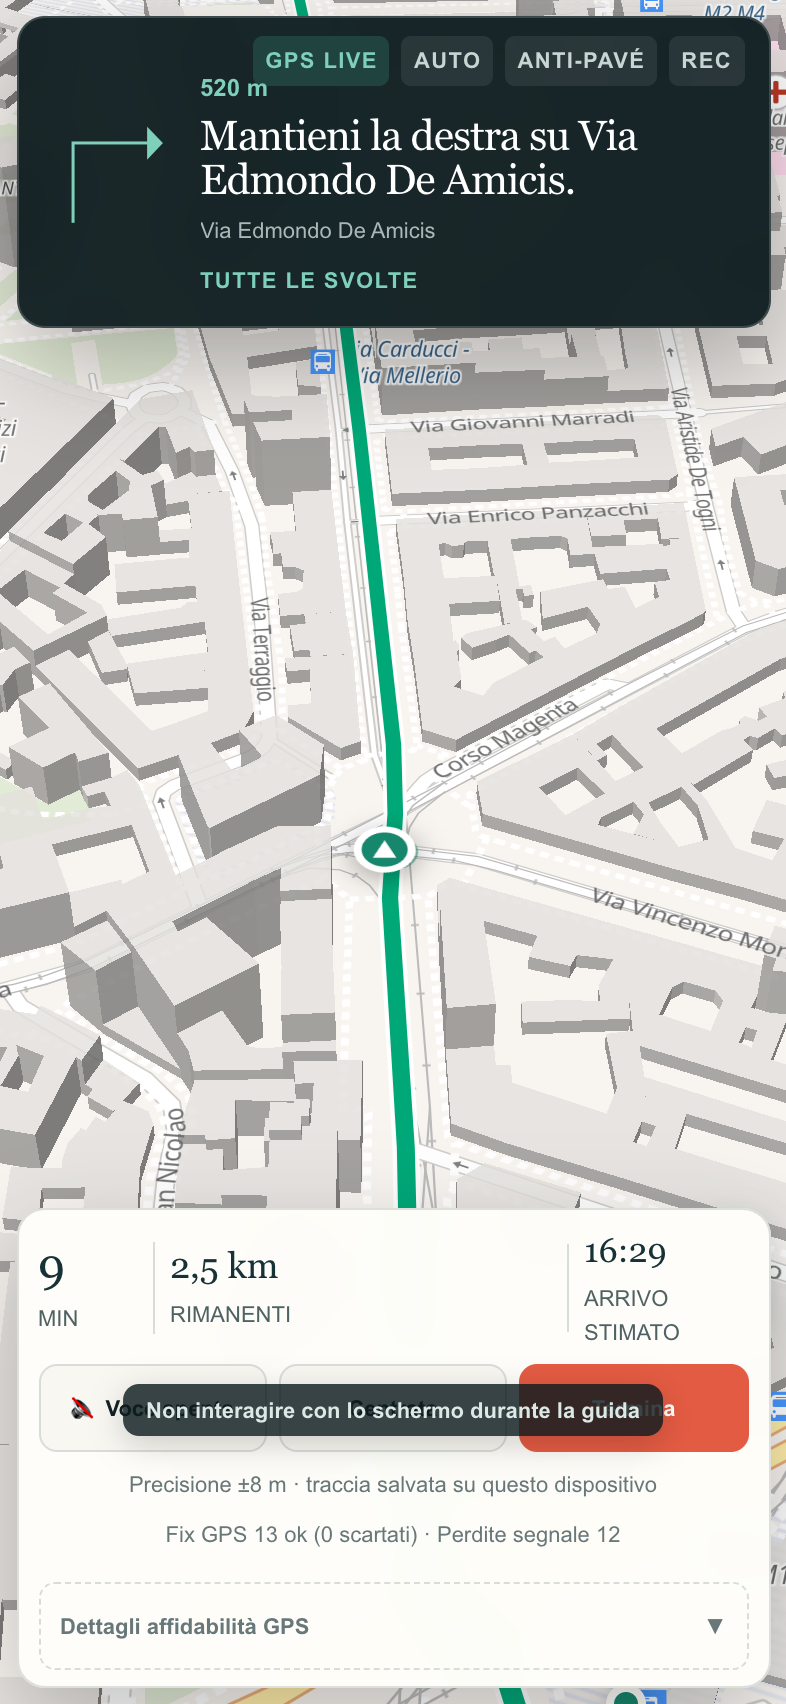
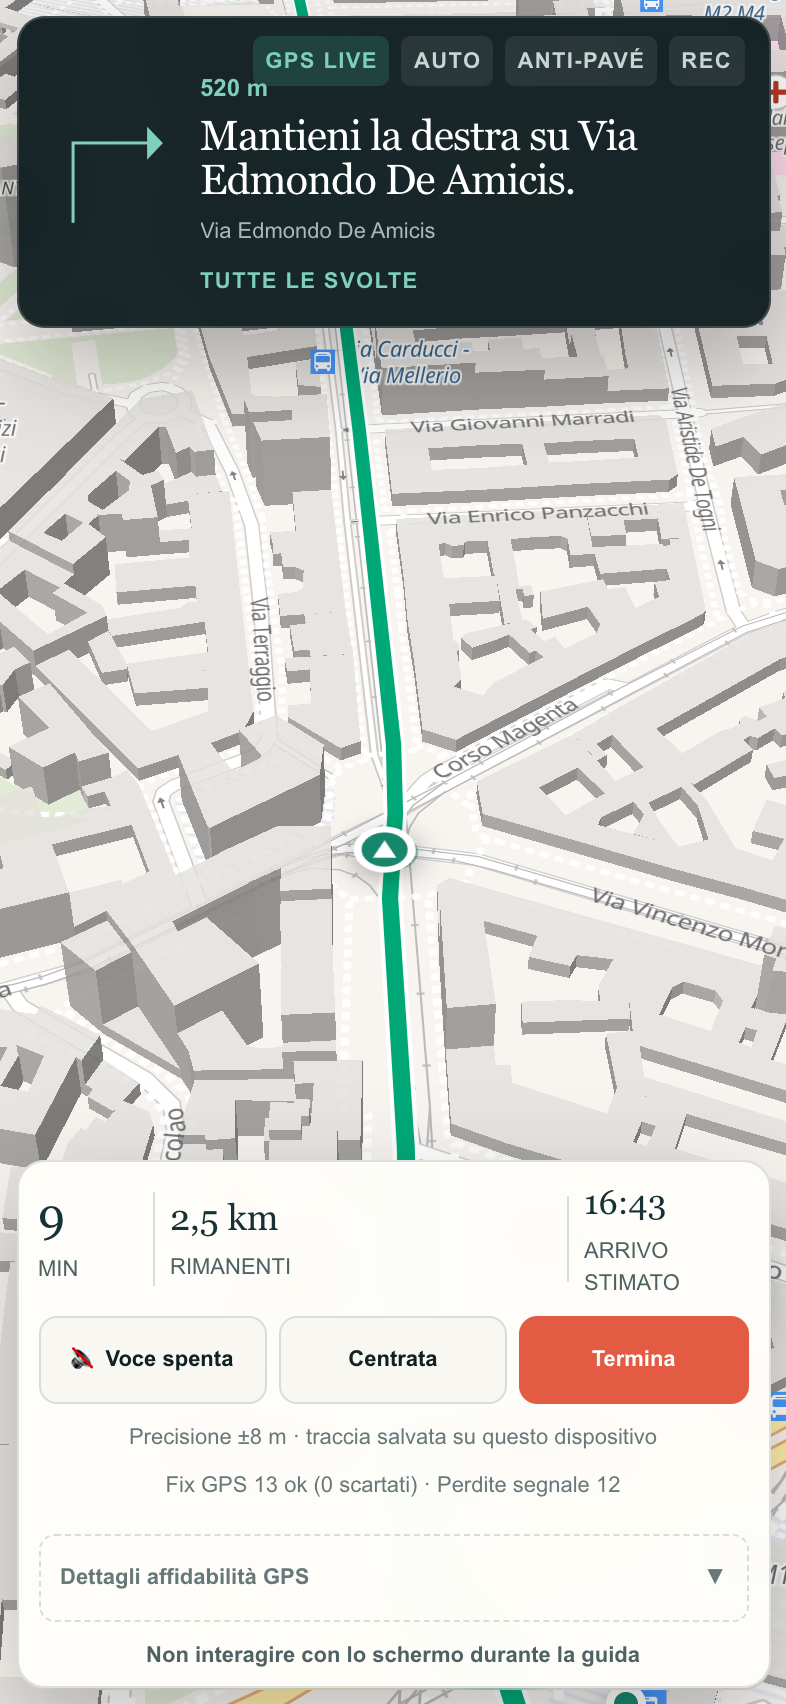
docs: update Phase 4.10 report for the final pilot version

Changed region(s): [[0.0, 0.6532, 0.9771, 0.9953], [0.8855, 0.902, 0.916, 0.9642]]

diff --git a/outputs/phase410-release-report.md b/outputs/phase410-release-report.md
@@ -2,9 +2,9 @@
 
 **Outcome: ready for the first physical iPhone test. Navigation is not yet validated on a real device.**
 
-Deployed to `https://lastrico-pilot.campsh.workers.dev` on 2026-11-01 as version `ad7a353a-cbfa-485d-9d51-bcbb1ac2fb3e`.
+Deployed to `https://lastrico-pilot.campsh.workers.dev` on 2026-11-01 as version `f5e3dd66-8bcb-4922-9c7e-9b37e6572a81`.
 
-Rollback:
+To return to the version before this phase:
 
 ```bash
 npx wrangler rollback de0d61c9-4061-4177-add1-3d174f6d8e42 --name lastrico-pilot
@@ -34,7 +34,11 @@ Nothing was pushed to GitHub or merged, so the pilot now runs commits that exist
 
 Private access within 150 m of either route end is now allowed and disclosed. `access=no`, wrong-way travel and private land crossed mid-route still disqualify a route, and now answer 422 with the real reason. This route returns 200 in production with the notice.
 
+## Other defects the review missed or understated
+
 The review report also missed that the diagnostics card claimed "Nessuna coordinata GPS viene inviata a server", which is false because reroutes send the position to routing providers. A test pinned that text. Both are corrected.
+
+The review described the "Non interagire con lo schermo" message as a minor overlap. It was permanent, sat over Voce, Centrata and Termina, and could take their taps. It now sits in the panel's flow and is hidden on a landscape phone. The end-to-end check asserts that a tap at each HUD control's centre reaches that control.
 
 ## Deviations from the prompt
 
@@ -43,7 +47,7 @@ The review report also missed that the diagnostics card claimed "Nessuna coordin
 - **B, untested path.** Export used the download path with the anchor click captured. The iOS share sheet has not been exercised.
 - **Benchmarks.** `scripts/benchmark-route-optimization.mjs` was not run, because it overwrites tracked files and replays archived provider responses that no longer match these requests. The table below compares the review's production measurements with the new production version instead.
 - **End-to-end tool.** The built-in browser blocks localhost subresources, so `scripts/e2e-mobile-chrome.mjs` drives real Chrome through DevTools. It is committed and can be rerun.
-- **Scope additions.** `.p43-hud-diagnostics` now spans the HUD row and the panel closes when navigation starts, because the recorder flow otherwise left a clipped panel covering the map.
+- **Scope additions.** `.p43-hud-diagnostics` now spans the HUD row and the panel closes when navigation starts, because the recorder flow otherwise left a clipped panel covering the map. The safety message moved out of its overlay, as described above.
 
 ## Evidence
 
@@ -59,7 +63,7 @@ In one earlier full run during development, two headless Chrome layout tests (Ph
 |---|---|---|
 | `dist/server/index.js` | 7,782,527 B | 7,769,262 B |
 | `index.js` gzip | 2,706,049 B | 2,703,025 B |
-| Total Worker upload gzip | not measured | 3,037 KiB |
+| Total Worker upload gzip | about 3.03 MB (phase 4.9 note) | 3,037 KiB |
 
 ### Route quality in production
 
@@ -75,9 +79,12 @@ The bicycle case is unchanged: it needs corridor-wide penalties, which are out o
 
 ### Mobile end-to-end
 
-`scripts/e2e-mobile-chrome.mjs` passed 24 of 24 checks on the local build under `wrangler dev` and again on production. Screenshots and `e2e-results.json` from the production run are in `outputs/phase410-validation/`.
+`scripts/e2e-mobile-chrome.mjs` passed 26 of 26 checks on the local build under `wrangler dev` and again on production. Screenshots and `e2e-results.json` from the production run are in `outputs/phase410-validation/`.
+
+The first production run, started seconds after the deploy finished, timed out waiting for the first page to load. The rerun passed in full. Deploy propagation is the likely cause, but it was not established.
 
 - Selected card contrast is at least 6:1 in both themes.
+- Every HUD control receives taps in portrait and landscape.
 - Simulation reaches arrival with monotonic distance.
 - With the recorder off, nothing is stored and the HUD says the position is not saved.
 - With the recorder on, a 128-fix GPS journey shows REC and discloses local storage, with no reroute and a largest advance of 27.6 m. It replays with 0 decision differences.
@@ -89,7 +96,7 @@ Read-only, at no more than one request per second, with no report POST:
 
 - All 6 preset itineraries by car, plus motorcycle and bicycle samples, returned 200 from `valhalla-fossgis`.
 - No notice mentions Overpass.
-- Production's page asset matches the build (`page-DnV64chf.js`), and the service worker is `lastrico-v13`.
+- Production's page asset matches the build (`page-CZI9cJ1d.js`), and the service worker is `lastrico-v13`.
 - Invalid coordinates return 400, and `/api/reports` returns 200.
 
 ### `wrangler dev` queue reproduction
@@ -98,8 +105,7 @@ A client abort while queued and while in flight did not stall later requests loc
 
 ## Known issues left open
 
-- **Landscape HUD:** on a phone in landscape the instruction and trip panels overlap by about 9 px and cover nearly all of the map (`simulation-hud-dark-852x393.png`). The checklist still tests landscape.
-- **Toast:** "Non interagire con lo schermo" overlaps HUD controls for a few seconds.
+- **Landscape HUD:** on a phone in landscape the instruction and trip panels overlap by about 9 px and cover nearly all of the map (`simulation-hud-dark-852x393.png`). All controls still receive taps. The checklist still tests landscape.
 - **Coverage:** surface data covers about 5% of the accepted Milan area, and nothing warns when a route leaves it.
 - **`/api/routes` has no per-client rate limit.** This is needed before wider testing, not for one iPhone.
 - **Coordinates are still sent in GET URLs,** with Workers observability enabled.
